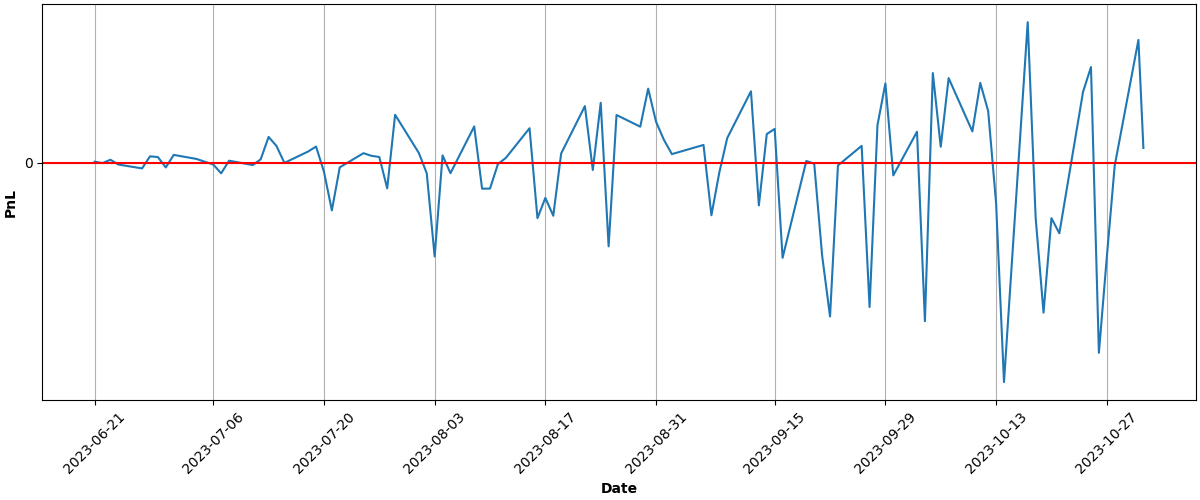
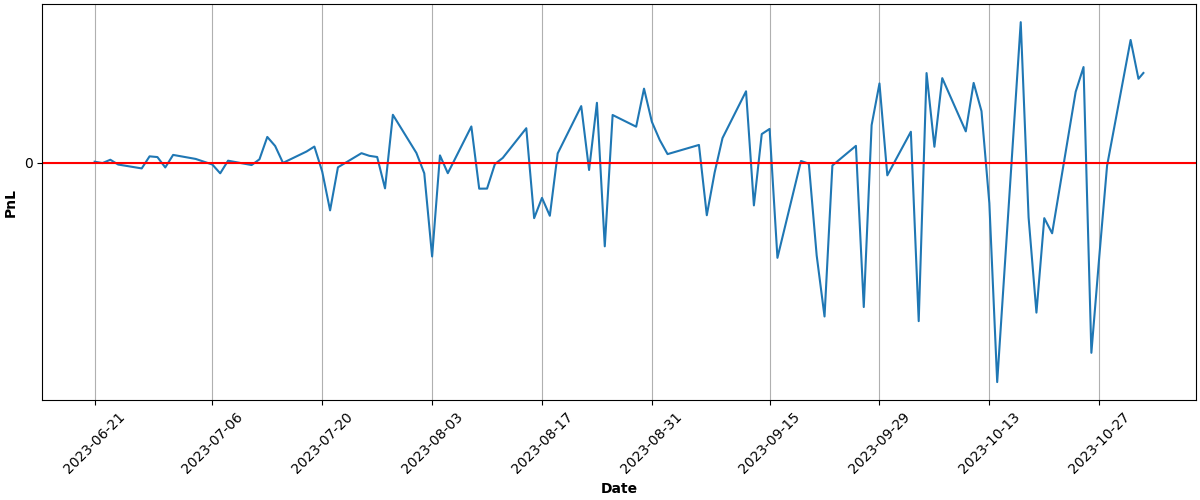
Automated Buy At Wed Nov  1 15:04:44 UTC 2023 Run ID 6721376168

diff --git a/README.md b/README.md
@@ -68,9 +68,9 @@ Results
 
 | Asset | Average Price | Current Price | ROI | 📈 |
 | --- | --- | --- | --- | --- |
-| FNGU | $171.723250667 | $137.2 | -20.10% | &#128308;&#128546; |
-| SVIX | $27.936566666 | $24.94 | -10.73% | &#128308;&#128546; |
-| **Total** |  |  | **-15.12%** | &#128308;&#128557; |
+| FNGU | $171.399325411 | $145.3182 | -15.22% | &#128308;&#128546; |
+| SVIX | $27.936566667 | $26.8 | -4.07% | &#128308;&#128546; |
+| **Total** |  |  | **-9.32%** | &#128308;&#128557; |
 
 ### PnL over time (calculations may not be accurate):
 
@@ -81,6 +81,6 @@ Results
 ---
 
 
-Updated at 2023-10-31 15:05:04
+Updated at 2023-11-01 15:05:09
 
 
